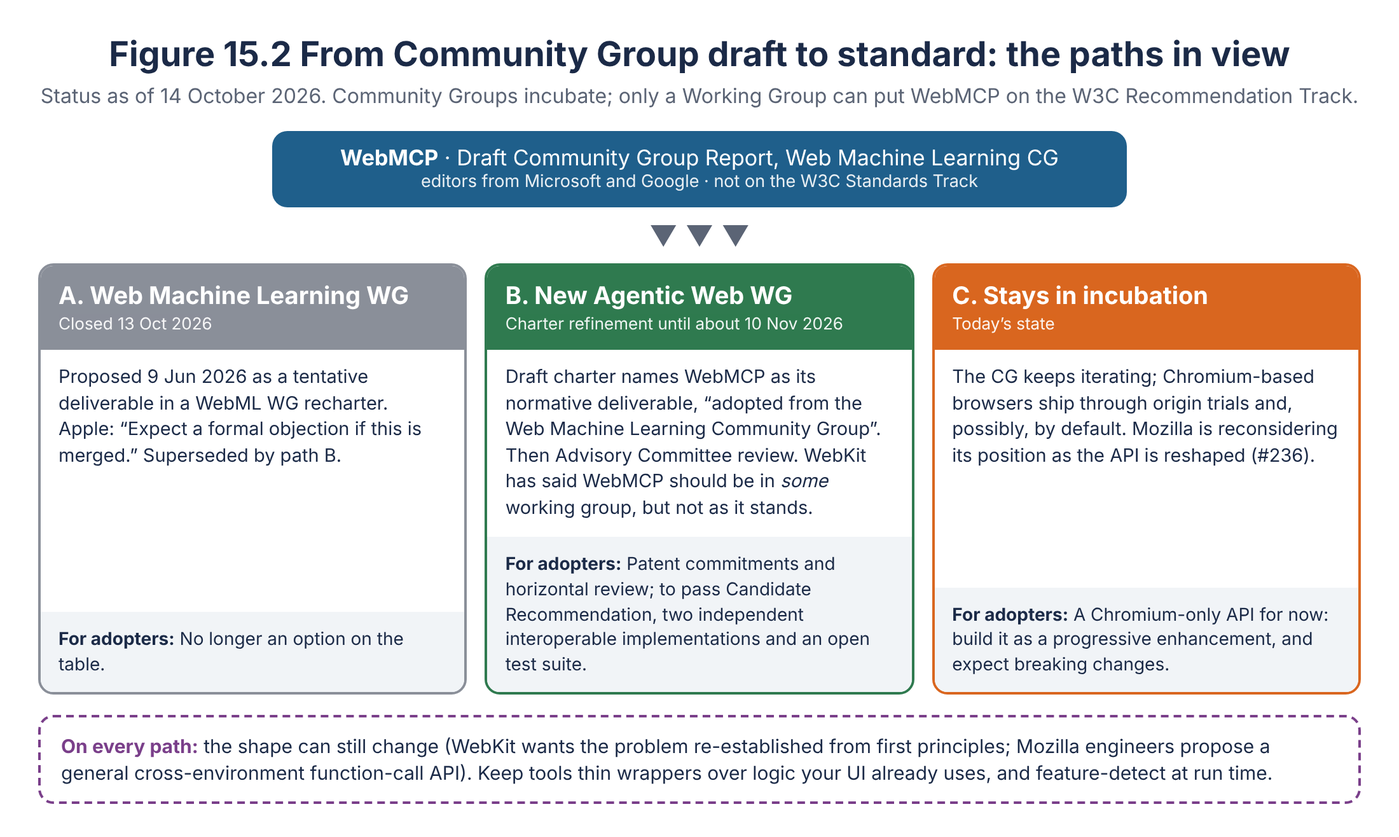
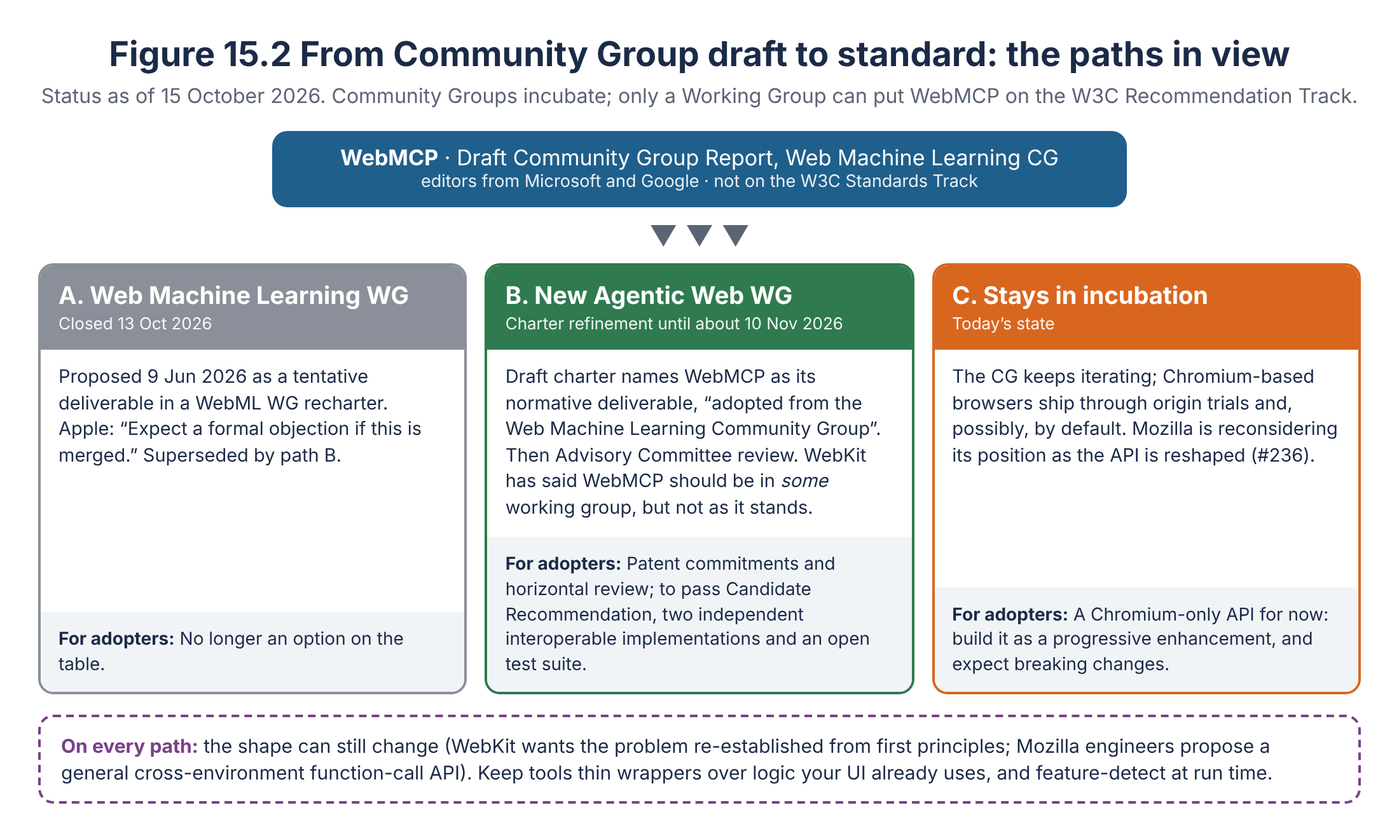
Tech review: chapter 15

diff --git a/chapters/15-browser-support-and-standards/WebMCP_Ch15_Browser_Support_and_Standards.md b/chapters/15-browser-support-and-standards/WebMCP_Ch15_Browser_Support_and_Standards.md
@@ -12,25 +12,25 @@ Suppose the Trailhead team asks the question every web team asks before adopting
 
 The engineering answer fits in a sentence. Chromium-based browsers run WebMCP behind origin trials, so Chrome and Edge will expose `document.modelContext` on any page that carries a valid trial token. Every other engine doesn’t expose it at all. Chapter 5 showed the feature check that covers this, and this chapter extends it into a small module that tells you exactly which surface you are standing on.
 
-The standards answer takes the rest of the chapter. WebMCP is a Community Group draft whose editors come from Microsoft and Google.[^2] Mozilla recorded a neutral position and Apple’s WebKit team an opposed one.[3,4] The W3C Technical Architecture Group (TAG) has been reviewing it since June and has labelled it “Missing: Multi-stakeholder support”.[^5] An attempt to move the specification into an existing W3C Working Group ran into a threatened formal objection over the summer and was closed on 13 October. Its replacement, a new Agentic Web Working Group, is a draft charter in review as this chapter is written.[6,7]
+The standards answer takes the rest of the chapter. WebMCP is a Community Group draft whose editors come from Microsoft and Google.[^2] Mozilla recorded a neutral position and Apple’s WebKit team an opposed one.[^3][^4] The W3C Technical Architecture Group (TAG) has been reviewing it since June and has labelled it “Missing: Multi-stakeholder support”.[^5] An attempt to move the specification into an existing W3C Working Group ran into a threatened formal objection over the summer and was closed on 13 October. Its replacement, a new Agentic Web Working Group, is a draft charter in review as this chapter is written.[^6][^7]
 
 Chapter 4 sketched this landscape in one table and promised to come back to it. This chapter does so in depth. It explains how to read each signal (a spec’s status line, a chromestatus entry, an origin trial page, a standards-position label, a TAG review), what each party has actually said, which agents and libraries consume WebMCP today, and what the possible routes from Community Group to standard would mean for a team that ships tools now. It closes with a script that re-checks all of it for you, because every fact in the following pages has a date on it.
 
-Everything here was checked on 14 October 2026.
+Everything here was checked on 15 October 2026.
 
 ## Reading the signals
 
 Web standards news arrives through a handful of documents, each with its own vocabulary. Before going vendor by vendor, it helps to know what each one can and cannot tell you.
 
-*The specification’s status line.* The top of the WebMCP draft reads “Draft Community Group Report, 14 October 2026”, and its status section says plainly that it “is not a W3C Standard nor is it on the W3C Standards Track.”[^2] The date changes whenever the editors publish, which during 2026 has meant every few days. A *Community Group* is an open forum anyone can join for free, and the W3C’s own FAQ asks members not to call its output “standards work” or “draft standards”. CG reports exist to make a later move to a Working Group easier: the contributor licence agreement is designed so that patent commitments carry over.[^1]
+*The specification’s status line.* The top of the WebMCP draft reads “Draft Community Group Report, 15 October 2026”, and its status section says plainly that it “is not a W3C Standard nor is it on the W3C Standards Track.”[^2] The date changes whenever the editors publish, which during 2026 has meant every few days. A *Community Group* is an open forum anyone can join for free, and the W3C’s own FAQ asks members not to call its output “standards work” or “draft standards”. CG reports exist to make a later move to a Working Group easier: the contributor licence agreement is designed so that patent commitments carry over.[^1]
 
 *The commit history.* The status line tells you that the draft changed; the repository tells you what changed. For WebMCP, the history of `webmachinelearning/webmcp` is the most precise record there is of when an API was renamed, added or removed, and it is the source for every date in Table 15.1.[^8]
 
-*chromestatus.* Each Chromium feature has an entry listing its owners, the blink-dev “intent” threads, and its trial stages with milestone numbers. It also has a “browser signals” block for other engines and a standards-maturity field.[^9] Read the stages and milestones as authoritative, since Chromium engineers maintain them. Read the signals block with care: on 14 October 2026 it still said “No signal” for both Firefox and Safari, months after both had published positions. The entry was last edited on 28 September.[^9] The lesson generalises: a status page is only as current as its last edit, so go to the primary record whenever one exists.
+*chromestatus.* Each Chromium feature has an entry listing its owners, the blink-dev “intent” threads, and its trial stages with milestone numbers. It also has a “browser signals” block for other engines and a standards-maturity field.[^9] Read the stages and milestones as authoritative, since Chromium engineers maintain them. Read the signals block with care: on 15 October 2026 it still said “No signal” for both Firefox and Safari, months after both had published positions. The entry was last edited on 28 September.[^9] The lesson generalises: a status page is only as current as its last edit, so go to the primary record whenever one exists.
 
-*Origin trial pages.* Chrome and Edge each have a registration page per trial, with the trial’s description, its expiry and its terms.[10,11]
+*Origin trial pages.* Chrome and Edge each have a registration page per trial, with the trial’s description, its expiry and its terms.[^10][^11]
 
-*Standards positions.* Mozilla and WebKit both run public GitHub repositories where anyone can ask for an engine’s view of a proposal. The outcome is a label: `position: neutral`, `position: oppose` and so on. The discussion in the issue is where the reasons live.[3,4]
+*Standards positions.* Mozilla and WebKit both run public GitHub repositories where anyone can ask for an engine’s view of a proposal. The outcome is a label: `position: neutral`, `position: oppose` and so on. The discussion in the issue is where the reasons live.[^3][^4]
 
 *TAG design reviews.* The TAG reviews proposals for architectural fit. Its labels track progress (“Progress: in progress”), the review type and the focus areas still pending, and, sometimes, a missing prerequisite.[^5]
 
@@ -46,7 +46,7 @@ Figure 15.1 puts the main events from all of these sources on one timeline.
 
 WebMCP reached Chromium in stages. chromestatus records a developer trial (the API behind a flag, for local testing) starting in Chrome 146, followed by an origin trial running from Chrome 149 through Chrome 156.[^9] Google announced the trial on 9 June 2026 with the words “In Chrome 149, you can sign up for the WebMCP origin trial.”[^12] On 28 September 2026 the trial gained an extension through Chrome 162. The reason chromestatus gives is unusually candid: “OT feedback has suggested improvements to the API, which we are implementing. The OT extension would enable us to get data on those improvements as well as to continue getting data on the rest of the feature.”[^9]
 
-Microsoft runs its own trial. The project’s implementation-status page says it is live in Edge 150, and the Edge registration page gives a trial expiration date of 30 March 2027.[13,11] Note that the two trials are measured differently: Chrome counts in milestones and Edge in calendar dates.
+Microsoft runs its own trial. The project’s implementation-status page says it is live in Edge 150, and the Edge registration page gives a trial expiration date of 30 March 2027.[^13][^11] Note that the two trials are measured differently: Chrome counts in milestones and Edge in calendar dates.
 
 For local development no token is needed. Chrome’s documentation tells you to enable `chrome://flags/#enable-webmcp-testing` and relaunch; that flag corresponds to the `WebMCPTesting` feature this book’s demos pass to Chromium on the command line.[^14]
 
@@ -74,7 +74,7 @@ A page can carry several tokens, and Chrome ignores tokens that are invalid or e
 
 Three details of the token model matter in practice.
 
-- *Third-party tokens.* Both trials accept them: chromestatus records third-party support for the Chrome trial, and the Edge trial record has `supportsThirdParty` set to `true`.[9,11] A third-party token lets a provider of embedded content, such as Supportly’s Helpdesk Widget from Chapter 7, enable the feature in its own script across every customer site. Chrome’s documentation adds a caution: a third-party token works only when injected by an external script, not in a meta tag, inline script or header.[^10]
+- *Third-party tokens.* Both trials accept them: chromestatus records third-party support for the Chrome trial, and the Edge trial record has `supportsThirdParty` set to `true`.[^9][^11] A third-party token lets a provider of embedded content, such as Supportly’s Helpdesk Widget from Chapter 7, enable the feature in its own script across every customer site. Chrome’s documentation adds a caution: a third-party token works only when injected by an external script, not in a meta tag, inline script or header.[^10]
 - *Extensions mean renewal.* When a trial is extended, Chrome emails registrants, and each origin has to renew and deploy a new token.[^10] Anyone who shipped a Chrome 149 token and expects it to work through Chrome 162 should check the registration console now.
 - *Measurement.* The trial measures adoption with a Chromium use counter named `kModelContextRegisterTool`.[^9] Google’s stated goal for the experiment is “understanding the API ergonomics for agentic workflows across various verticals such as web commerce and productivity”, along with “metrics for tool usage and latency.”[^9]
 
@@ -95,17 +95,17 @@ Origin trials exist to change an API. Chrome’s announcement calls trials “ti
 | 8 Oct 2026 | Declarative (HTML forms) API removed from the spec “for now” | #338 |
 | 8 Oct 2026 | `UnknownError` replaced with specific `DOMException` types | #339 |
 
-The browser and the draft don’t always move together. Chrome’s WebMCP documentation, updated on 7 October 2026, still says “There are two APIs you can use” and describes the declarative one; the spec removed that API the next day.[14,8] Chapter 8 covers what the trial still ships, and Appendix D walks through migrating code written before the May rename.
+The browser and the draft don’t always move together. Chrome’s WebMCP documentation, updated on 7 October 2026, still says “There are two APIs you can use” and describes the declarative one; the spec removed that API the next day.[^14][^8] Chapter 8 covers what the trial still ships, and Appendix D walks through migrating code written before the May move.
 
 > **Still in flux: the trial and the draft**
 >
 > *Error types.* Pull request #339 replaced `UnknownError` with specific exception types on 8 October 2026.[^8] Chromium 156 still returns `UnknownError` in the cases Chapters 6 and 7 measured, so code that branches on `err.name` should treat both as possible for now.
-> *The declarative API.* It is in Chrome’s trial and documentation, and out of the spec.[14,8]
+> *The declarative API.* It is in Chrome’s trial and documentation, and out of the spec.[^14][^8]
 > *Which improvements the extension tests.* chromestatus says the extension exists to gather data on API improvements suggested by trial feedback, but doesn’t list them.[^9]
 
 ### Detecting what you are running on
 
-With two trials, a flag, a renamed attribute and a policy that can switch the whole API off, a single `'modelContext' in document` check answers only part of the question. Listing 15.2 is a small module that answers all of it and registers tools only where that is safe.
+With two trials, a flag, a moved attribute and a policy that can switch the whole API off, a single `'modelContext' in document` check answers only part of the question. Listing 15.2 is a small module that answers all of it and registers tools only where that is safe.
 
 **Listing 15.2 — Feature detection across WebMCP builds (webmcp-support.js)**
 
@@ -191,24 +191,24 @@ For an adopter, the practical reading is simple. No WebKit implementation is com
 
 The TAG’s early review of the Community Group work was filed on 11 June 2026. Marcos Cáceres suggested expediting it, since a proposal to add WebMCP to a Working Group charter was already on the table, and W3C staff agreed.[^5] On 10 July the TAG labelled it “Progress: in progress” and set six focus areas as pending: API design, web architecture, security, privacy, accessibility and internationalisation. It also added the label that sums up the politics: “Missing: Multi-stakeholder support.”[^5]
 
-The public thread shows where the argument has settled. After a TAG breakout meeting in August, Farolino reported that the question that “keeps coming up over and over” was why WebMCP is shaped as an explicit capability layer rather than “more HTML semantics”. He asked that any negative resolution on those grounds come with evidence that semantics would be a sufficient alternative.[^5] Two adopters weighed in. Yoav Weiss, writing “as someone deploying WebMCP (under an Origin Trial in various Chromium browsers) to a large number of storefronts”, listed the Shopify storefront tools in use (browsing collections, managing orders, searching the catalogue, showing product variants, searching store policies) and said he didn’t “see a feasible declarative alternative to the imperative tools that agents can call.”[^5] A second commenter cited his company’s public benchmark, which reports UI actuation using about 5–10 times the tokens and cost per task, and running 4–5 times slower, than WebMCP. That figure is the vendor’s own; nobody else has reproduced it.[^5] TAG members asked people not to read too much into draft notes. Marcos Cáceres reminded participants that notes shared privately “do not represent the consensus of the TAG in any way, shape, or form.”[^5]
+The public thread shows where the argument has settled. After a TAG breakout meeting in August, Farolino reported that the question that “keeps coming up over and over” was why WebMCP is shaped as an explicit capability layer rather than “more HTML semantics”. He asked that any negative resolution on those grounds come with evidence that semantics would be a sufficient alternative.[^5] Two adopters weighed in. Yoav Weiss, writing “as someone deploying WebMCP (under an Origin Trial in various Chromium browsers) to a large number of storefronts”, listed the Shopify storefront tools in use (browsing collections, managing orders, searching the catalogue, showing product variants, searching store policies) and said he didn’t “see a feasible declarative alternative to the imperative tools that agents can call.”[^5] A second commenter cited his company’s public benchmark, which reports UI actuation using about 5–10 times the tokens and cost per task, and running 4–5 times slower, than WebMCP. That figure is the vendor’s own claim, and this book has not reproduced it.[^5] TAG members asked people not to read too much into draft notes. Marcos Cáceres reminded participants that notes shared privately “do not represent the consensus of the TAG in any way, shape, or form.”[^5]
 
 The latest public word from the TAG, on 6 October, is that the review is “taking a bit longer than usual.” On 9 October the editors asked the TAG to hold its position until after Mozilla’s refreshed position and after TPAC.[^5]
 
 > **Still in flux: the review outcomes**
 >
-> *The TAG’s conclusion.* No position had been published as of 14 October 2026, and the editors have asked for it to wait until after TPAC.[^5]
-> *Mozilla’s position.* It is being renegotiated around issue #236, and it could change the TAG’s “Missing: Multi-stakeholder support” label.[18,5]
+> *The TAG’s conclusion.* No position had been published as of 15 October 2026, and the editors have asked for it to wait until after TPAC.[^5]
+> *Mozilla’s position.* It is being renegotiated around issue #236, and it could change the TAG’s “Missing: Multi-stakeholder support” label.[^18][^5]
 > *WebKit’s position.* It is `oppose`, and the issue is closed.[^4]
 
 ## Who consumes WebMCP today
 
-Exposing tools is only half of the system. Something has to call them. The project’s implementation-status page is the only list of consumers in one place, and it is the project’s own claim rather than each vendor’s.[^13] As of 14 October 2026 it lists:
+Exposing tools is only half of the system. Something has to call them. The project’s implementation-status page is the only list of consumers in one place, and it is the project’s own claim rather than each vendor’s.[^13] As of 15 October 2026 it lists:
 
-- *Chrome:* the origin trial, live from Chrome 149. The trial describes itself as letting websites “register tools for use by agents hosted by the site or in Chrome.”[13,9]
+- *Chrome:* the origin trial, live from Chrome 149. The trial describes itself as letting websites “register tools for use by agents hosted by the site or in Chrome.”[^13][^9]
 - *Edge:* the origin trial, live in Edge 150.[^13]
-- *Brave:* “Experimental support is added to Leo AI chat.”[^13] The Brave issue behind it was closed as completed in July 2026. Its test plan turns on `brave://flags/#enable-webmcp-testing` and expects a “tools pill” in Leo’s sidebar when a page offers tools.[^19]
-- *ChatGPT Desktop:* “WebMCP is supported in ChatGPT Desktop.”[^13] OpenAI’s earlier agentic browser, ChatGPT Atlas, is gone: OpenAI announced its retirement in July 2026, alongside a desktop app with its own built-in browser.[^20]
+- *Brave:* “Experimental support is added to Leo AI chat.”[^13] The Brave issue behind it was first closed on 7 July 2026 but has been reopened twice since, most recently on 7 October, and it is open as of 15 October 2026. On 1 October a Brave engineer wrote that the feature is “flagged on in Nightly at the moment”. The issue’s test plan turns on `brave://flags/#enable-webmcp-testing` and expects a “tools pill” in Leo’s sidebar when a page offers tools.[^19]
+- *ChatGPT Desktop:* “WebMCP is supported in ChatGPT Desktop.”[^13] OpenAI’s earlier agentic browser, ChatGPT Atlas, is gone. OpenAI announced its retirement on 9 July 2026, alongside a desktop app with its own built-in browser, and its help centre now says that “ChatGPT Atlas has been retired and no longer receives updates.”[^20]
 - *Meta Ray-Ban Display:* support for web apps is “coming soon”, letting Meta AI on the glasses call tools registered with `document.modelContext.registerTool()`. It is off by default and enabled per device.[^13]
 - *Firefox and Safari:* links to their positions, plus Mozilla’s Bugzilla meta bug.[^13]
 
@@ -218,7 +218,7 @@ For planning, the order of confidence is: Chromium browsers with the trial (veri
 
 ## Community libraries
 
-Long before the browsers, the community had built WebMCP-shaped libraries. Chapter 4 described MCP-B’s role in the API’s history. Today its packages are the most widely used way to try WebMCP outside a Chromium trial. Each of the three main packages was at version 6.0.3 on 14 October 2026, published that same day, under the MIT licence:[^22]
+Long before the browsers, the community had built WebMCP-shaped libraries. Chapter 4 described MCP-B’s role in the API’s history. Today its packages are the most widely used way to try WebMCP outside a Chromium trial. Each of the three main packages was at version 6.0.3 on 15 October 2026, published the day before, under the MIT licence:[^22]
 
 | Package | Description (from the npm registry) |
 |---|---|
@@ -230,8 +230,8 @@ The documentation site registers a live tool with `document.modelContext.registe
 
 Three cautions apply to any library that tracks a moving draft:
 
-1. *A polyfill is a second implementation with its own schedule.* When the spec dropped the declarative API on 8 October, the polyfill kept “temporary declarative tools”.[8,22] That is a reasonable choice for users, but it means the polyfill and the draft can disagree.
-2. *Version numbers move as fast as the spec.* All three packages were republished on the day this chapter was checked. Pin exact versions, and read the changelog before upgrading.
+1. *A polyfill is a second implementation with its own schedule.* When the spec dropped the declarative API on 8 October, the polyfill kept “temporary declarative tools”.[^8][^22] That is a reasonable choice for users, but it means the polyfill and the draft can disagree.
+2. *Version numbers move as fast as the spec.* All three packages were republished on 14 October 2026, the day before this chapter was checked. Pin exact versions, and read the changelog before upgrading.
 3. *A polyfill cannot create consumers.* It gives your page a `document.modelContext` to register on. Calls still need an agent that knows how to reach it, such as a matching extension. The detection code in Listing 15.2 can’t tell native support from a polyfill, and for registration purposes it doesn’t need to.
 
 ## From Community Group to Working Group
@@ -248,25 +248,25 @@ The last point is the political core of this chapter. Two Chromium-based browser
 
 ### What happened in 2026
 
-The question of a WG came up within a day of the positions being requested. On 28 May 2026, the WebKit engineer who would post WebKit’s position a week later opened issue #192, noting that “Community Groups do not create W3C standards” and asking whether WebMCP should move to the WG.[^25] W3C staff supported an early rechartering of the Web Machine Learning WG to take it in, and on 9 June a pull request proposed adding WebMCP to that group’s charter “as a tentative deliverable.”[6,25] The WebML WG is chartered until 30 April 2027.[^26]
+The question of a WG came up within a day of the positions being requested. On 28 May 2026, the WebKit engineer who would post WebKit’s position a week later opened issue #192, noting that “Community Groups do not create W3C standards” and asking whether WebMCP should move to the WG.[^25] W3C staff supported an early rechartering of the Web Machine Learning WG to take it in, and on 9 June a pull request proposed adding WebMCP to that group’s charter “as a tentative deliverable.”[^6][^25] The WebML WG is chartered until 30 April 2027.[^26]
 
 That route ran into trouble almost immediately. WebKit’s position, published the same month, called the machine-learning venue wrong for the work.[^4] On 18 June the author of #192 clarified that they had proposed discussing the move, not supporting it: “We think WebML WG is the incorrect working group, but WebMCP should be part of some working group.”[^25] On 13 August the WG recorded a resolution that it “has reviewed the charter proposal and approves the direction. WebKit position duly noted.” Marcos Cáceres replied that it was “baffling how you can record a resolution when a member of the working group has objected,” and Apple disputed the minutes the next day.[^25] The same day, on the charter pull request, Cáceres recorded “that Apple is opposed to this going working group. Expect a formal objection if this is merged.” He added: “We'd be open to discussing a different venue at the W3C and doing this properly from first principles (i.e., some new agentic web CG/WG).”[^6]
 
 A formal objection is not just a strong comment. Under the W3C Process, Formal Objections “receive formal consideration and a formal response”. If the Team cannot resolve one through investigation and mediation, it goes to the W3C Council.[^27] Any charter that names WebMCP and draws an objection from Apple faces that procedure.
 
-On 28 September W3C staff changed course. The “latest thinking,” wrote Philippe le Hégaret, the W3C’s chartering facilitator, on the charter pull request, “is to have a working group dedicated to develop specifications that facilitate web pages and applications to be leveraged by LLMs and AI agents,” while the WebML WG would “stay focused on developing APIs for enabling efficient machine learning inference in the browser.”[^6] The same day a charter proposal for an Agentic Web Working Group appeared, stated to “replace the previous thinking”, and on 13 October the WebML pull request was closed.[7,6]
+On 28 September W3C staff changed course. The “latest thinking,” wrote Philippe le Hégaret, the W3C’s Chartering Facilitator,[^28] on the charter pull request, “is to have a working group dedicated to develop specifications that facilitate web pages and applications to be leveraged by LLMs and AI agents,” while the WebML WG would “stay focused on developing APIs for enabling efficient machine learning inference in the browser.”[^6] The same day a charter proposal for an Agentic Web Working Group appeared, stated to “replace the previous thinking”, and on 13 October the WebML pull request was closed.[^7][^6]
 
 ### The Agentic Web Working Group charter
 
 The draft charter’s mission is “to develop specifications that facilitate web pages and applications to be leveraged by LLMs and AI agents.” Its scope covers describing site capabilities and context for agents, representing agent identity and delegation, transparency about agent interactions, “expressing permissions, policies, and constraints on agent actions”, and guidance for authors. It explicitly excludes model APIs, crawler controls, bot detection and agent-to-server communications, among others.[^24] Its one named normative deliverable is WebMCP, “adopted from the Web Machine Learning Community Group”.[^24]
 
-It is still very much a draft. On 14 October 2026 the chairs, dates, team contact and timeline were template placeholders, and the deliverables section still carried both template options: whether the group intends to stop at Candidate Recommendation or go on to Recommendation.[^24] The W3C announced the start of charter refinement on 1 October and estimated that it “will last until approximately 10 November 2026.”[^28] The Process Document requires that phase to last at least 28 days, and an Advisory Committee review follows it.[^27] The strategy issue lists the TAG review, the accessibility considerations and a threat model among its “known or potential areas of concern”.[^7]
+It is still very much a draft. On 15 October 2026 the chairs, dates, team contact and timeline were template placeholders, and the deliverables section still carried both template options: whether the group intends to stop at Candidate Recommendation or go on to Recommendation.[^24] The W3C announced the start of charter refinement on 1 October and estimated that it “will last until approximately 10 November 2026.”[^28] The Process Document requires that phase to last at least 28 days, and an Advisory Committee review follows it.[^27] The strategy issue lists the TAG review, the accessibility considerations and a threat model among its “known or potential areas of concern”.[^7]
 
-The draft’s scope is broader than WebMCP, and in places it echoes the critics. Agent transparency and “permissions, policies, and constraints on agent actions” are close to the consent and control questions WebKit raised.[24,4] Whether WebKit would accept this group as the “new agentic web CG/WG” Apple said it was open to, and whether it would accept WebMCP as a starting deliverable rather than a proposal to set aside, is not on the public record. Farolino’s answer to WebKit’s call for a new group was: “I have no objection to moving WebMCP exactly as-is to such a WG.”[^25]
+The draft’s scope is broader than WebMCP, and in places it echoes the critics. Agent transparency and “permissions, policies, and constraints on agent actions” are close to the consent and control questions WebKit raised.[^24][^4] Whether WebKit would accept this group as the “new agentic web CG/WG” Apple said it was open to, and whether it would accept WebMCP as a starting deliverable rather than a proposal to set aside, is not on the public record. Farolino’s answer to WebKit’s call for a new group was: “I have no objection to moving WebMCP exactly as-is to such a WG.”[^25]
 
 ### The paths, and what each means for you
 
-Figure 15.2 lays out the routes visible on 14 October 2026.
+Figure 15.2 lays out the routes visible on 15 October 2026.
 
 ![Figure 15.2 — From Community Group draft to standard: the WebML WG route (closed), the proposed Agentic Web WG (in charter refinement) and continued incubation, with what each means for adopters.](images/figure-15-2.png)
 
@@ -274,14 +274,14 @@ Figure 15.2 lays out the routes visible on 14 October 2026.
 
 - *The Agentic Web WG charters with WebMCP in scope.* The specification moves to the Recommendation Track with patent commitments and horizontal review. Expect a stream of changes from TAG and accessibility review, and expect the interoperability bar to keep the specification at Candidate Recommendation, or below it, until a second engine implements it. For your code, nothing changes on charter day. Changes come later, through review.
 - *The charter is delayed or WebMCP is taken out of it.* WebMCP stays a CG report. Chromium-based browsers can keep running trials or ship it, but it would remain a Chromium-only feature with no standards-track commitments.
-- *The API is reshaped before either happens.* If #236 succeeds, the core becomes a general cross-environment function-call mechanism, and agents become one consumer.[^18] Mozilla might move off neutral; WebKit’s objection to a separate agent-facing layer would remain.[3,4] Your tools would survive as functions with names, descriptions and schemas, but registration and invocation code would change.
+- *The API is reshaped before either happens.* If #236 succeeds, the core becomes a general cross-environment function-call mechanism, and agents become one consumer.[^18] Mozilla might move off neutral; WebKit’s objection to a separate agent-facing layer would remain.[^3][^4] Your tools would survive as functions with names, descriptions and schemas, but registration and invocation code would change.
 
 None of these paths removes the advice from Chapter 4. Build tools as thin wrappers over logic your interface already uses, feature-detect at run time, and treat WebMCP as a progressive enhancement. The cost of following a breaking change is then a few lines in one module.
 
 > **Still in flux: the venue**
 >
-> *Charter refinement.* It is expected to end around 10 November 2026; extensions are announced on the strategy issue.[28,7]
-> *Apple’s response to the new charter.* Apple threatened a formal objection to the WebML route. Its view of the Agentic Web WG draft is not on the public record as of 14 October 2026.[6,7]
+> *Charter refinement.* It is expected to end around 10 November 2026; extensions are announced on the strategy issue.[^28][^7]
+> *Apple’s response to the new charter.* Apple threatened a formal objection to the WebML route. Its view of the Agentic Web WG draft is not on the public record as of 15 October 2026.[^6][^7]
 > *Recommendation or not.* The draft charter has not yet chosen whether the group will aim for full Recommendation.[^24]
 
 ## Keeping this chapter current yourself
@@ -376,13 +376,13 @@ A few design choices are worth explaining. The script reads GitHub issue pages r
 
 Here is the snapshot it produced when this chapter was checked:
 
-**Listing 15.4 — The watcher’s snapshot on 14 October 2026 (snapshots/2026-10-14.json)**
+**Listing 15.4 — The watcher’s snapshot on 15 October 2026 (snapshots/2026-10-15.json)**
 
 ```json
 {
-  "checkedAt": "2026-10-14T22:51:34.750Z",
-  "spec": "Draft Community Group Report, 14 October 2026",
-  "commits": "2026-10-14T22:00:40Z Fix inactive document unregistration's notification algorithm (#345)",
+  "checkedAt": "2026-10-15T09:10:15.852Z",
+  "spec": "Draft Community Group Report, 15 October 2026",
+  "commits": "2026-10-15T00:00:42Z Handle re-registration during input serialization (#347)",
   "chromestatus": {
     "trialFrom": 149,
     "trialThrough": 162
@@ -396,8 +396,7 @@ Here is the snapshot it produced when this chapter was checked:
   ],
   "tag": [
     "Missing: Multi-stakeholder support",
-    "Progress: in progress",
-    "Progress: untriaged"
+    "Progress: in progress"
   ]
 }
 ```
@@ -410,11 +409,11 @@ Run it weekly. The fields that matter most for planning are `chromestatus.trialT
 - *Put the trial on someone’s calendar.* Chrome’s trial runs through Chrome 162, Edge’s through 30 March 2027, and an extension means new tokens. Assign an owner for registration, renewal and the token in your deployment configuration.
 - *Budget for churn.* Eight behaviour-changing spec changes in 2026 is the baseline (Table 15.1). Keep WebMCP code in one module, pin library versions, and run the Chapter 14 tests against each new Chromium release.
 - *Treat standards politics as a risk, not a verdict.* Neutral can become positive if the API is reshaped, and a Working Group would add review and stability. Opposition from WebKit means no Safari support for this design. Neither changes whether well-designed tools help your users in browsers that have them.
-- *Feed the process.* Google’s trial asks for feedback on the API shape, and the TAG thread shows that deployment data carries weight: Shopify storefront tools were cited as an argument.[12,5] Real usage from your product is the most persuasive input you can give.
+- *Feed the process.* Google’s trial asks for feedback on the API shape, and the TAG thread shows that deployment data carries weight: Shopify storefront tools were cited as an argument.[^12][^5] Real usage from your product is the most persuasive input you can give.
 
 ## Chapter summary
 
-- WebMCP is a Draft Community Group Report (14 October 2026) of the W3C Web Machine Learning CG. It is not a W3C standard and not on the Standards Track. Community Groups incubate; only a Working Group can standardise.
+- WebMCP is a Draft Community Group Report (15 October 2026) of the W3C Web Machine Learning CG. It is not a W3C standard and not on the Standards Track. Community Groups incubate; only a Working Group can standardise.
 - Chrome’s origin trial runs from Chrome 149, originally through 156 and since 28 September 2026 extended through 162. Edge’s trial runs in Edge 150 until 30 March 2027. Both accept third-party tokens. Tokens go in a meta tag, an HTTP header or, for third parties, an external script, and an extension means renewing them.
 - Trials exist to change APIs. In 2026 the spec removed `provideContext()`, moved `modelContext` to `Document`, made `registerTool()` return a promise, removed the declarative API and changed its error types. The trial and the documentation don’t always match the draft.
 - Feature detection should cover the secure context, the methods and events, the `"tools"` permissions policy and the old `navigator` surface. In Chromium 156, a page under `Permissions-Policy: tools=()` still sees the API, but calls are rejected with `NotAllowedError`.
@@ -430,27 +429,27 @@ Chapter 16 turns from the platform to the business: which journeys to expose fir
 ## Notes
 
 [^1]: W3C, “Community and Business Groups: Frequently Asked Questions”, including “Are Community and Business Group reports W3C standards?”. <https://www.w3.org/community/about/faq/>
-[^2]: WebMCP specification, Draft Community Group Report, 14 October 2026, header, “Status of this document” and editors. <https://webmachinelearning.github.io/webmcp/>
-[^3]: mozilla/standards-positions issue #1412, “WebMCP”: request (28 May 2026), Benjamin VanderSloot’s assessment (1 June 2026), label “position: neutral” (5 August 2026), and the exchange of 24–26 August 2026. <https://github.com/mozilla/standards-positions/issues/1412>
+[^2]: WebMCP specification, Draft Community Group Report, 15 October 2026, header, “Status of this document” and editors. <https://webmachinelearning.github.io/webmcp/>
+[^3]: mozilla/standards-positions issue #1412, “WebMCP”: request (28 May 2026), Benjamin VanderSloot’s assessment (1 June 2026; GitHub account `bvandersloot-mozilla`, which GitHub links to commits authored as “Benjamin VanderSloot <bvandersloot@mozilla.com>”), label “position: neutral” (5 August 2026), and the exchange of 24–26 August 2026. <https://github.com/mozilla/standards-positions/issues/1412>
 [^4]: WebKit/standards-positions issue #670, “WebMCP”: WebKit’s position comment (3 June 2026), label “position: oppose” (11 June 2026), concern and topic labels, and the follow-up of 17 June 2026. <https://github.com/WebKit/standards-positions/issues/670>
 [^5]: w3ctag/design-reviews issue #1238, “Incubation: WebMCP”: filed 11 June 2026; labels applied 10 July 2026; comments of 6, 18, 19 and 20 August and 6 and 9 October 2026. <https://github.com/w3ctag/design-reviews/issues/1238>
 [^6]: w3c/charter-drafts pull request #829, “[wg/webmachinelearning] Adds WebMCP in scope” (opened 9 June 2026; Apple’s comment of 13 August 2026; closed 13 October 2026). <https://github.com/w3c/charter-drafts/pull/829>
 [^7]: w3c/strategy issue #576, “[wg/agenticweb] Agentic Web Group Charter” (opened 28 September 2026; label “In Charter Refinement”, 1 October 2026). <https://github.com/w3c/strategy/issues/576>
-[^8]: Commit history of webmachinelearning/webmcp, branch `main`, read from a clone on 14 October 2026; the commits named are fe84c67 (#132, 5 March 2026), c7b5c70 (#184, 27 May 2026), ec37ec4 (#200, 8 June 2026), d29b8d7 (#225, 21 July 2026), a724ab1 (#246, 17 August 2026), d61d0e6 (#330, 30 September 2026), 14ae813 (#338, 8 October 2026), b206dae (#339, 8 October 2026) and 1636b33 (#345, 14 October 2026). <https://github.com/webmachinelearning/webmcp/commits/main>
+[^8]: Commit history of webmachinelearning/webmcp, branch `main`, read from a clone on 15 October 2026; the commits named are fe84c67 (#132, 5 March 2026), c7b5c70 (#184, 27 May 2026), ec37ec4 (#200, 8 June 2026), d29b8d7 (#225, 21 July 2026), a724ab1 (#246, 17 August 2026), d61d0e6 (#330, 30 September 2026), 14ae813 (#338, 8 October 2026), b206dae (#339, 8 October 2026) and the newest, 3279798 (#347, “Handle re-registration during input serialization”, committed 14 October 2026 at 21:00 UTC−3, which is 15 October in UTC). <https://github.com/webmachinelearning/webmcp/commits/main>
 [^9]: chromestatus.com, “WebMCP” (feature 5117755740913664), read through its JSON API: origin-trial stage (Chrome 149 to 156, third-party support, use counter `kModelContextRegisterTool`), extension stage created 28 September 2026 (through Chrome 162, with the stated reason), developer-trial stage (Chrome 146), standards maturity “Incubation”, and browser signals; entry last updated 28 September 2026. <https://chromestatus.com/feature/5117755740913664>
 [^10]: Chrome for Developers, “Get started with origin trials” (last updated 7 November 2024): tokens in a meta tag, an HTTP header or script; third-party tokens; multiple tokens per page; renewal when a trial is extended; “Chrome ignores invalid or expired tokens.” <https://developer.chrome.com/docs/web-platform/origin-trials>
 [^11]: Microsoft Edge Origin Trials, “WebMCP” trial page: description, “Trial Expiration Date: March 30, 2027”, registration, and the trial record (`supportsThirdParty: true`, `edgeOnly: false`). <https://developer.microsoft.com/en-us/microsoft-edge/origin-trials/trials/0b76fe60-b266-458e-a285-04e375c0c31a>
 [^12]: Chrome for Developers, “Join the WebMCP origin trial” (published 9 June 2026). <https://developer.chrome.com/blog/ai-webmcp-origin-trial>
 [^13]: webmachinelearning/webmcp, “Browser and Agent Implementation Status” (implementation-status.md). <https://github.com/webmachinelearning/webmcp/blob/main/implementation-status.md>
 [^14]: Chrome for Developers, “WebMCP” (published 18 May 2026, updated 7 October 2026): “Get started”, “Local WebMCP” and “Use WebMCP APIs”. <https://developer.chrome.com/docs/ai/webmcp>
-[^15]: WebMCP specification, Draft Community Group Report, 14 October 2026, §4.1 (the `[SecureContext]` `modelContext` attribute on `Document`), §4.2 (`ModelContext` IDL) and §4.4 “Permissions policy integration”. <https://webmachinelearning.github.io/webmcp/#api>
-[^16]: WebMCP specification, Draft Community Group Report, 14 October 2026, security and privacy considerations: the `Permissions-Policy: tools=()` mitigation. <https://webmachinelearning.github.io/webmcp/>
+[^15]: WebMCP specification, Draft Community Group Report, 15 October 2026, §4.1 (the `[SecureContext]` `modelContext` attribute on `Document`), §4.2 (`ModelContext` IDL) and §4.4 “Permissions policy integration”. <https://webmachinelearning.github.io/webmcp/#api>
+[^16]: WebMCP specification, Draft Community Group Report, 15 October 2026, security and privacy considerations: the `Permissions-Policy: tools=()` mitigation. <https://webmachinelearning.github.io/webmcp/>
 [^17]: Bugzilla bug 2018306, “[meta] Implement a prototype WebMCP API” (Core :: Machine Learning: General; filed 20 February 2026; status NEW), read through the Bugzilla REST API. <https://bugzilla.mozilla.org/show_bug.cgi?id=2018306>
 [^18]: webmachinelearning/webmcp issue #236, “Reposition feature as a generic communication tool?” (opened 3 August 2026 by Jake Archibald), including comments of 26–27 August and 22–24 September 2026. <https://github.com/webmachinelearning/webmcp/issues/236>
-[^19]: brave/brave-browser issue #55232, “[AI Chat]: Add support for the WebMCP protocol to Leo” (opened 5 May 2026; closed as completed in brave-core#37660 on 7 July 2026), including its test plan. <https://github.com/brave/brave-browser/issues/55232>
-[^20]: Michael Kan, “OpenAI to Retire ChatGPT Atlas Browser Less Than a Year After Launch”, PCMag, 9 July 2026. OpenAI’s own help article, “ChatGPT Atlas retirement”, refused automated fetches on 14 October 2026; its search-result summary reads “ChatGPT Atlas has been retired and no longer receives updates.” <https://www.pcmag.com/news/openai-to-retire-chatgpt-atlas-browser-less-than-a-year-after-launch> and <https://help.openai.com/en/articles/20001371-chatgpt-atlas-retirement>
+[^19]: brave/brave-browser issue #55232, “[AI Chat]: Add support for the WebMCP protocol to Leo” (opened 5 May 2026; closed 7 July 2026, reopened 27 August, closed 1 October, reopened 7 October; open on 15 October 2026), including its test plan and the comment of 1 October 2026. Event dates read through the GitHub REST API. <https://github.com/brave/brave-browser/issues/55232>
+[^20]: OpenAI Help Center, “ChatGPT Atlas retirement”, read on 15 October 2026 (the page refuses direct automated requests, so it was read through a text-rendering proxy): “ChatGPT Atlas has been retired and no longer receives updates.” Michael Kan, “OpenAI to Retire ChatGPT Atlas Browser Less Than a Year After Launch”, PCMag, 9 July 2026, for the announcement and the targeted deprecation date of 9 August 2026. <https://help.openai.com/en/articles/20001371-chatgpt-atlas-retirement> and <https://www.pcmag.com/news/openai-to-retire-chatgpt-atlas-browser-less-than-a-year-after-launch>
 [^21]: MCP-B, “WebMCP documentation and developer tools” (docs.mcp-b.ai home page, with its live `registerTool()` example and the Rook extension). <https://docs.mcp-b.ai>
-[^22]: npm registry records for `@mcp-b/global`, `@mcp-b/webmcp-polyfill` and `usewebmcp` (each at version 6.0.3, published 14 October 2026; MIT licence; package descriptions as quoted). <https://registry.npmjs.org/@mcp-b/global>, <https://registry.npmjs.org/@mcp-b/webmcp-polyfill>, <https://registry.npmjs.org/usewebmcp>
+[^22]: npm registry records for `@mcp-b/global`, `@mcp-b/webmcp-polyfill` and `usewebmcp` (each at version 6.0.3 on 15 October 2026, published 14 October 2026; MIT licence; package descriptions as quoted). <https://registry.npmjs.org/@mcp-b/global>, <https://registry.npmjs.org/@mcp-b/webmcp-polyfill>, <https://registry.npmjs.org/usewebmcp>
 [^23]: WebMCP-org/npm-packages repository, “NPM packages for MCP-B: Transport layers, React hooks, and browser tools for the Model Context Protocol”. <https://github.com/WebMCP-org/npm-packages>
 [^24]: W3C, “Agentic Web Working Group Charter” (DRAFT), including Scope, Out of Scope, Deliverables and Success Criteria. <https://w3c.github.io/charter-drafts/2026/agenticweb-wg.html>
 [^25]: webmachinelearning/webmcp issue #192, “Transitioning WebMCP to the working group” (opened 28 May 2026), including the comments of 18 June and 13–14 August 2026. <https://github.com/webmachinelearning/webmcp/issues/192>
